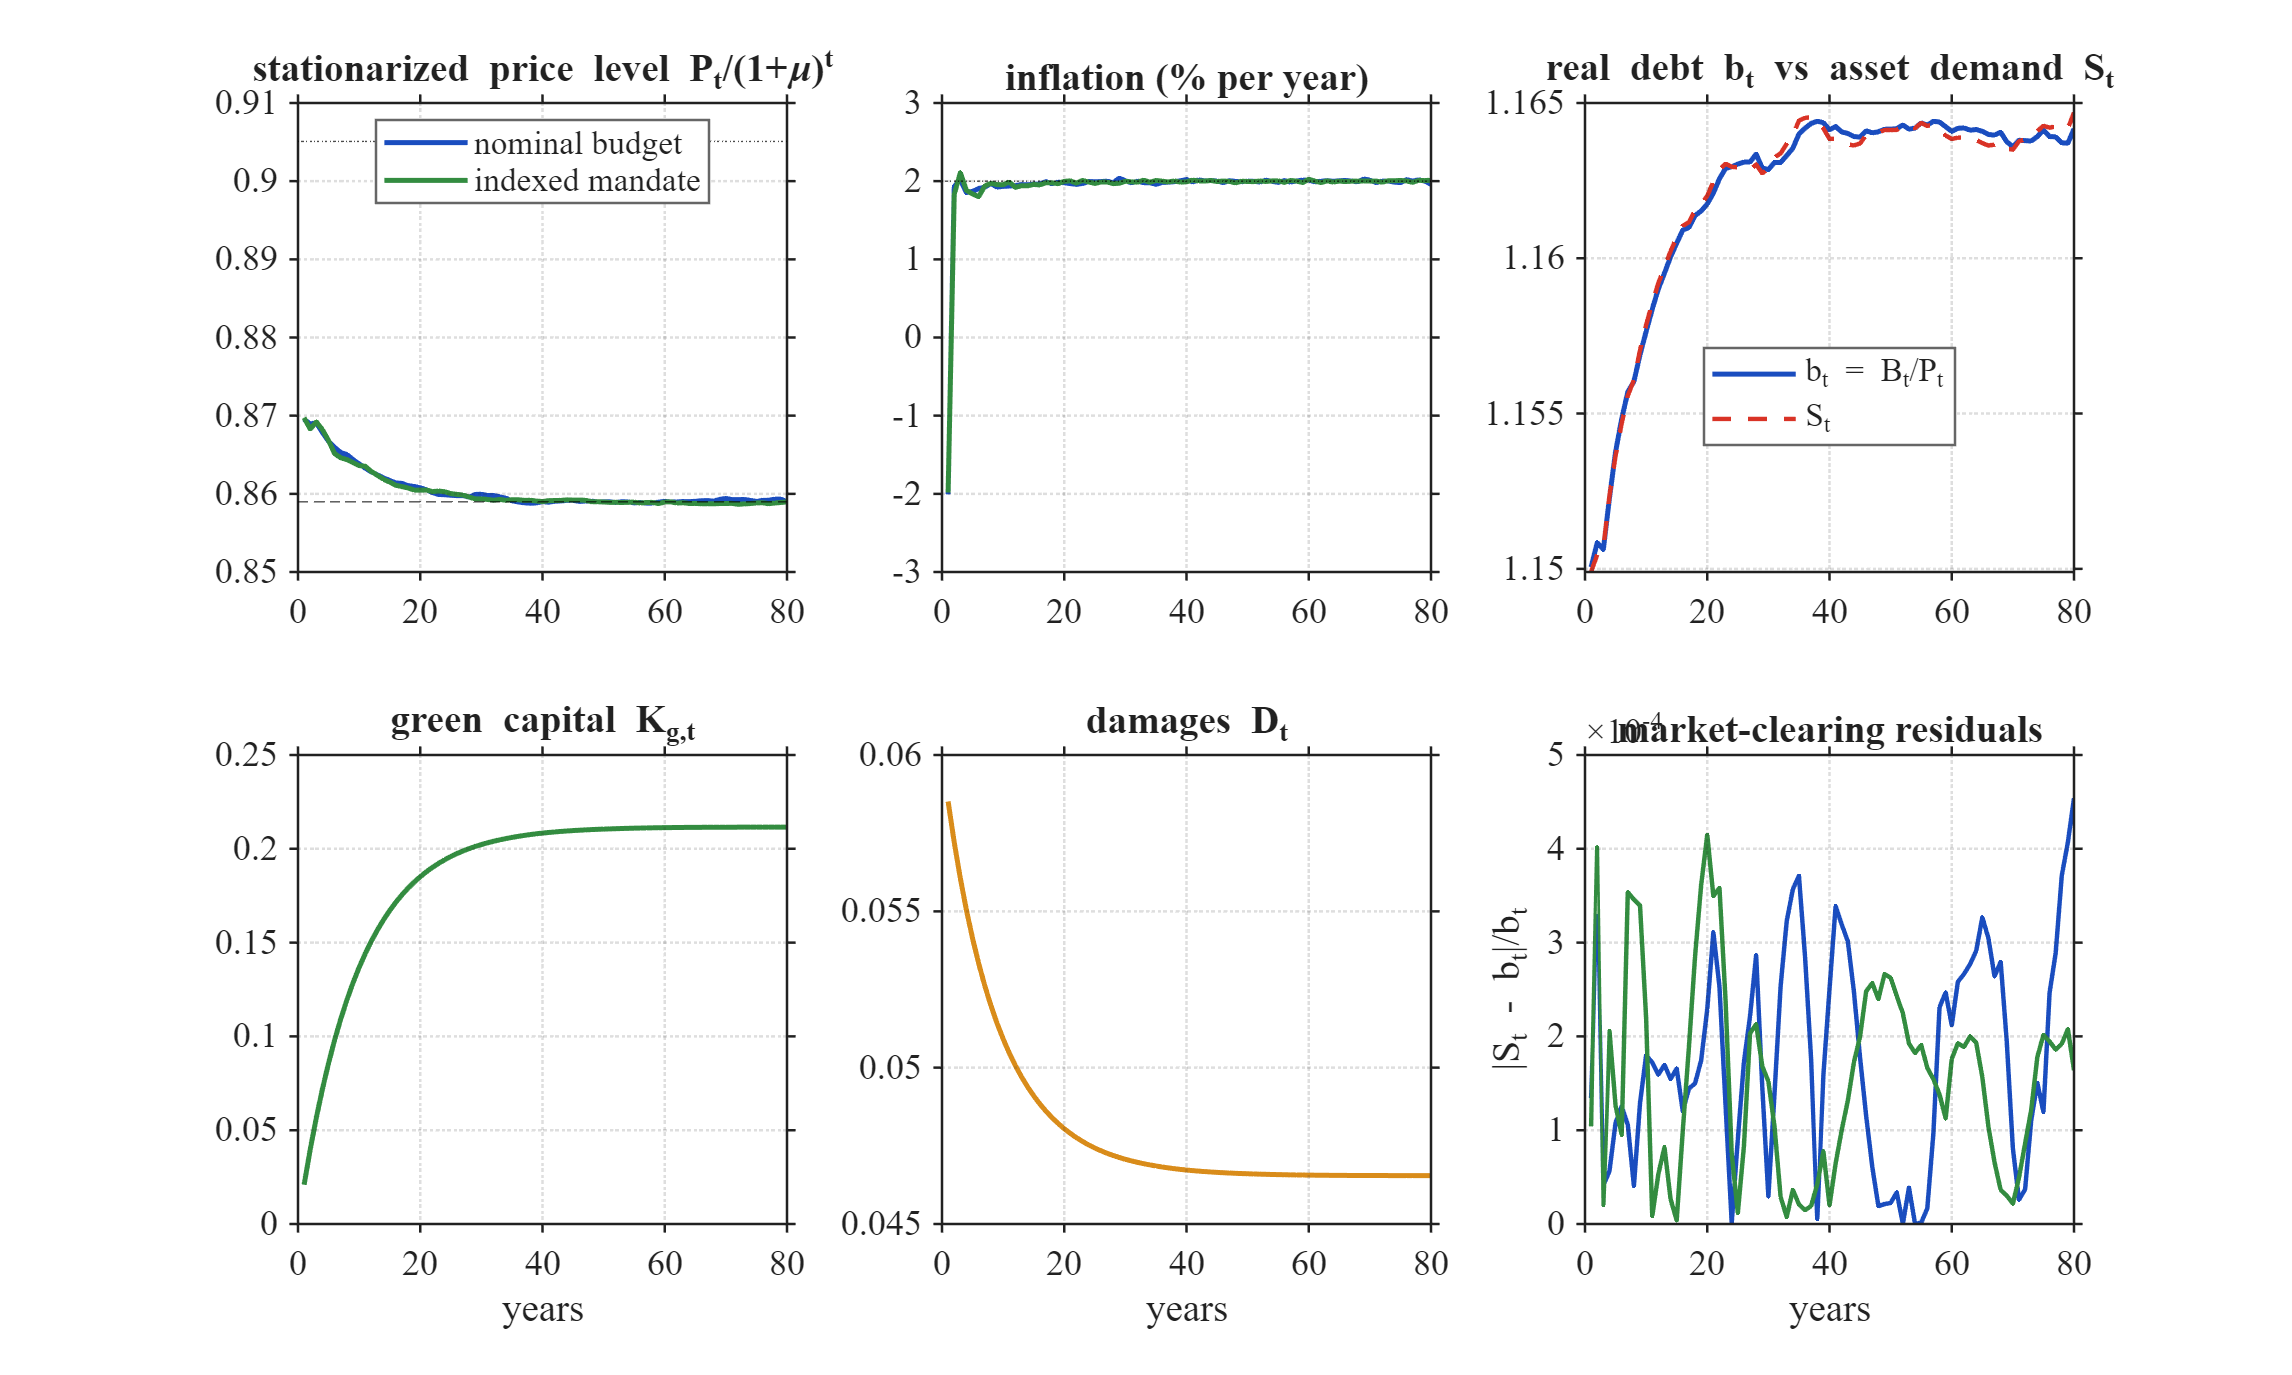
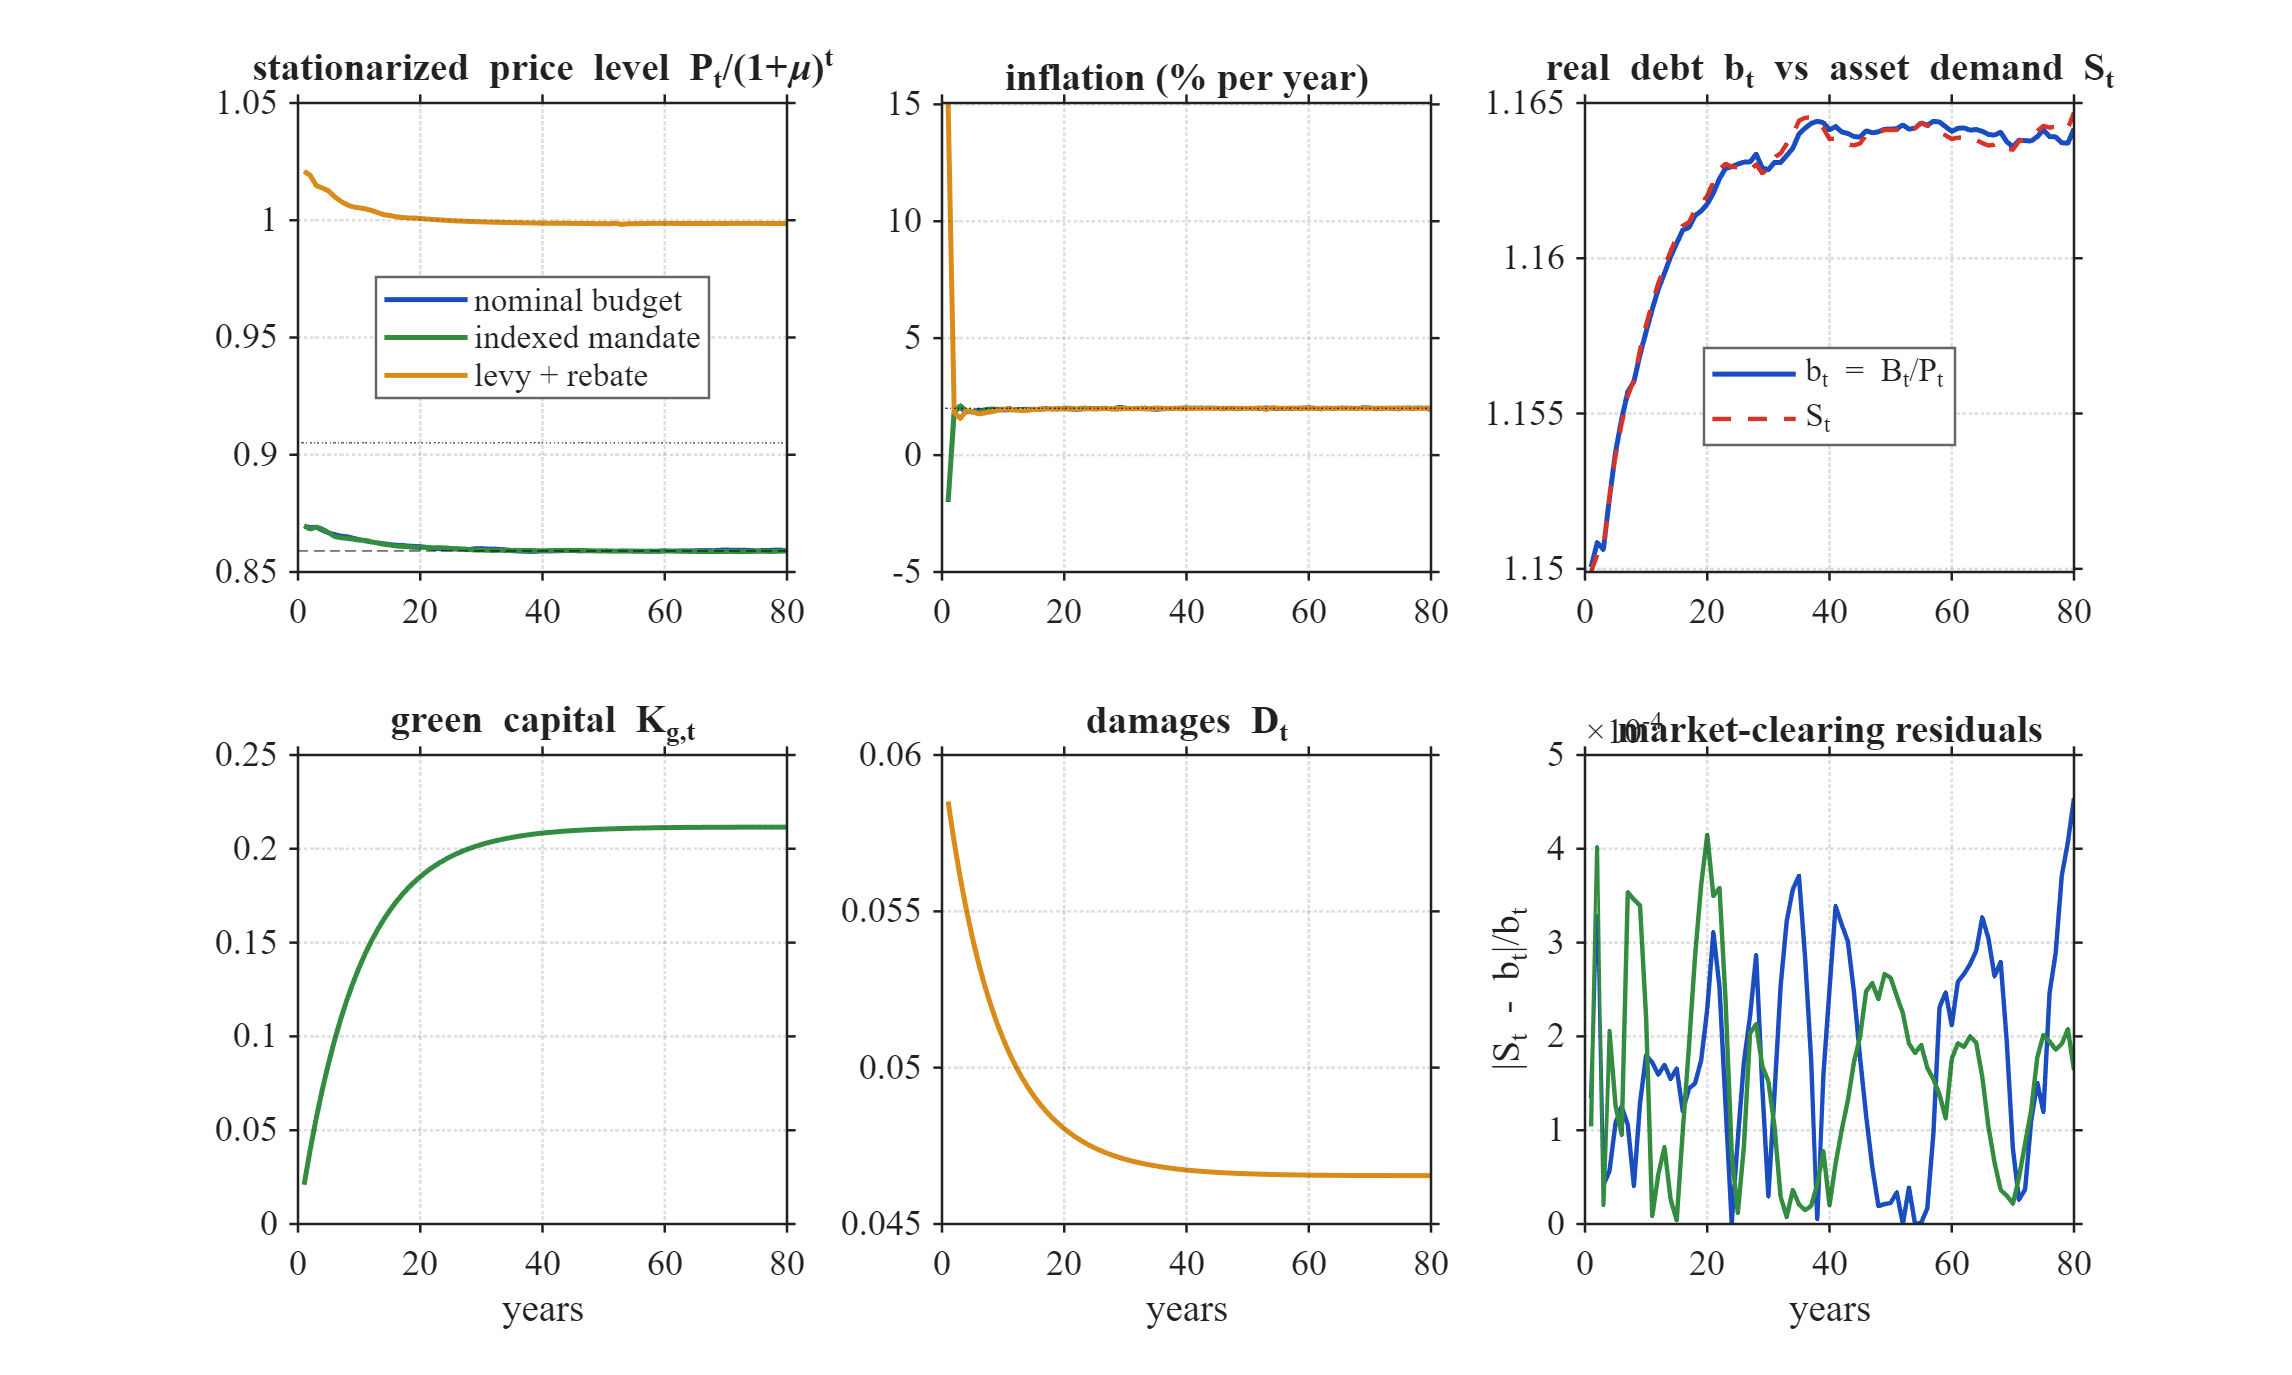
paper: pre-circulation polish -- typography, macros in abstract, renames
* PFig18 with the rebate line brought over from main (the upload had
  landed on the default branch) -- the financing sign flip is now visible
  in the compiled figure, matching the three-line caption.
* Abstract headline shares switched to numbers_auto macros (last
  hand-coded instances).
* Section 6 renamed "Transition dynamics" (6.3 is the paper's own
  mechanism, not a diagnostic); date line set to "preliminary draft,
  comments welcome"; acknowledgments scaffold added to the thanks
  footnote.
* Typography: all margin violations fixed -- Definition 3's elasticity
  displayed, Tables 3/4/5/7 sized to the text block (footnotesize/
  small + tabcolsep; Table 4's source column set as p{0.36\textwidth}),
  \emergencystretch absorbs citation-cluster line breaks. Remaining
  overfulls are <7pt (invisible).

Claude-Session: https://claude.ai/code/session_01VsvChJvt9mbti2AQ6YbCpo

diff --git a/research_green_deficits/paper/green_deficits_price_level.tex b/research_green_deficits/paper/green_deficits_price_level.tex
@@ -88,18 +88,24 @@
 \newcommand{\vphi}{\varphi}
 
 \onehalfspacing
+% Absorb small line-breaking overfulls (long citation clusters, inline math
+% tuples) with mild extra interword stretch instead of margin violations.
+\setlength{\emergencystretch}{1.5em}
 
 \title{Can Green Deficits Finance Themselves?\\
 {\large Climate Investment, Asset Demand, and Self-Fulfilling Price Levels
 in Incomplete-Markets Economies}\thanks{%
-All quantitative statements are generated by the accompanying replication
-package; the benchmark numbers reported below come from the full-resolution
-computation ($n_a=500$ asset nodes). The climate calibration is illustrative
-and flagged as such throughout. The numerical method is described in
+I thank colleagues and seminar participants for helpful comments; all
+remaining errors are mine. All quantitative statements are generated by the
+accompanying replication package (quoted numbers are machine-written from
+the saved results); the benchmark numbers come from the full-resolution
+computation ($n_a=500$ asset nodes). The climate calibration is
+externally disciplined where estimates exist and flagged as illustrative
+where they do not. The numerical method is described in
 Appendix~\ref{app:numerics}.}}
 \author{Maxime Polis\\[2pt]
 {\normalsize Department of Economics, Lund University}}
-\date{July 2026 --- first complete draft}
+\date{July 2026 --- preliminary draft, comments welcome}
 
 \begin{document}
 \maketitle
@@ -121,9 +127,9 @@ distributional incidence, and we quantify it in a calibrated
 heterogeneous-agent economy (debt of $1.1$ times income; a program of
 $2\%$ of income). The answer is conditional: green deficits are partially
 self-financing under conservative and medium damage calibrations
-($\nu = 0.16$ under DICE damages, $0.58$ under empirical temperature-damage
-estimates) and become fully self-financing only under high-damage,
-high-effectiveness assumptions ($\nu = 2.0$).
+($\nu = \nuLowShort$ under DICE damages, $\nuMedShort$ under empirical
+temperature-damage estimates) and become fully self-financing only under
+high-damage, high-effectiveness assumptions ($\nu = \nuHighShort$).
 
 The mechanism turns the arithmetic into a menu of design choices. Under
 conventional financing the revaluation channel runs \emph{against} the
@@ -496,7 +502,7 @@ two-state aggregate climate process as an extension. The economy has a
 unit continuum of households, a government (fiscal authority plus central
 bank), and a climate sector. This is an \emph{endowment} economy: the price
 level is determined by asset-market clearing, not by a Phillips curve. The
-transition diagnostics of Section~\ref{sec:transitions} embed these same
+transition exercises of Section~\ref{sec:transitions} embed these same
 household, government, and climate blocks in a New Keynesian production
 economy --- adding firms, an intratemporal labor choice, sticky prices, and
 an interest-rate rule --- which is stated in full in
@@ -677,8 +683,12 @@ bondholders.
 \end{definition}
 
 \begin{definition}[Demand elasticity]\label{def:elasticity}
-Along the demand curve, $\varepsilon_S(P) \equiv
-d\ln \Sfun(1+r^{ss};\tau(P),D(P))/d\ln P$. Since bond supply $B/P$ has price
+Along the demand curve,
+\[
+\varepsilon_S(P) \;\equiv\;
+\frac{d\ln \Sfun\big(1+r^{ss};\ \tau(P),\ D(P)\big)}{d\ln P}.
+\]
+Since bond supply $B/P$ has price
 elasticity exactly $-1$, crossings of \eqref{eq:assetmarket} are
 \emph{upward} (locally unique and stable in the natural tatonnement) where
 $\varepsilon_S>-1$ and \emph{downward} where $\varepsilon_S<-1$.
@@ -1256,6 +1266,8 @@ $\theta_g$-threshold row is the $\nu=1$ frontier of the robustness sweep
 (Section~\ref{subsec:robustness}, same $\beta^{*}$). All numbers are
 machine-written from the saved results (\texttt{numbers\_auto.tex}).}
 \label{tab:calibrated}
+\footnotesize
+\setlength{\tabcolsep}{4pt}
 \begin{tabular}{lccc}
 \toprule
  & LOW (DICE) & MEDIUM (DJO--BHM) & HIGH (Bilal--K\"anzig) \\
@@ -1327,14 +1339,15 @@ parameter comes from.
 parameters take their range from published estimates; ``swept'' parameters
 are reported as axes of the results rather than point choices.}
 \label{tab:sources}
-\begin{tabular}{llll}
+\footnotesize
+\setlength{\tabcolsep}{4pt}
+\begin{tabular}{lll p{0.36\textwidth}}
 \toprule
 parameter & benchmark & status & source / discipline \\
 \midrule
-$D_0$ (no-abatement damages) & $0.06$ & anchored, 3 columns &
-  \begin{tabular}[t]{@{}l@{}}$0.02$ DICE \citep{nordhaus2017};
-  $0.06$ Dell--Jones--Olken /\\ Burke--Hsiang--Miguel range; $0.20$
-  \citet{bilalkanzig2024}\end{tabular}\\
+$D_0$ (no-abatement damages) & $0.06$ & anchored, 3 cols &
+  $0.02$ DICE \citep{nordhaus2017}; $0.06$ Dell--Jones--Olken /
+  Burke--Hsiang--Miguel range; $0.20$ \citet{bilalkanzig2024} \\
 $\theta_g$ (abatement effectiveness) & $1.2$ & swept ($0$--$3$) &
   no direct estimate; reported as a frontier (below) \\
 $\psi$ (damage incidence) & $0$ & swept ($0$--$2$) &
@@ -1642,6 +1655,8 @@ section C4).
 deficit (lump-sum) financing, by baseline wealth quintile (percent;
 calibrated pass, $n_a=500$ run).}
 \label{tab:incidence}
+\small
+\setlength{\tabcolsep}{4.5pt}
 \begin{tabular}{lccccccc}
 \toprule
  & Q1 (poorest) & Q2 & Q3 & Q4 & Q5 & top 10\% & aggregate \\
@@ -1863,7 +1878,7 @@ percent efficiency loss forfeits roughly forty percent of self-financing
 
 % ==========================================================================
 \FloatBarrier
-\section{Transition diagnostics}\label{sec:transitions}
+\section{Transition dynamics}\label{sec:transitions}
 % ==========================================================================
 
 All quantitative results so far are \emph{steady-state} comparisons. This
@@ -2101,6 +2116,8 @@ Green capital is rule-independent; the balanced-budget regime
 (\textsc{taylorbal}) isolates the deficit-financing component. Both accuracy
 gates pass (see text).}
 \label{tab:twoasset}
+\footnotesize
+\setlength{\tabcolsep}{4pt}
 \begin{tabular}{lcccccc}
 \toprule
 regime & $\pi$ impact (ann.) & $Y$ impact & $r^b$ impact & debt (40q) & $K_g$ (40q) & equity (impact) \\